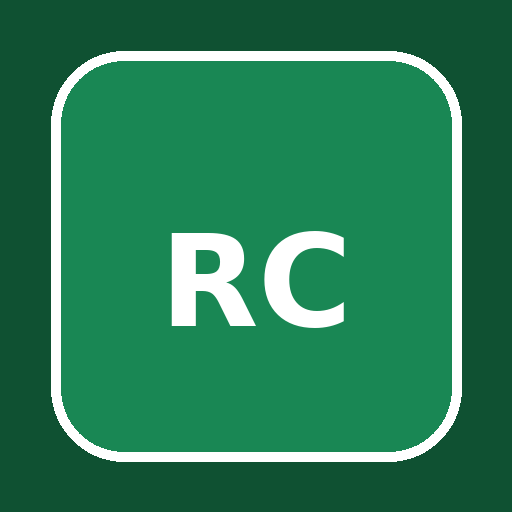
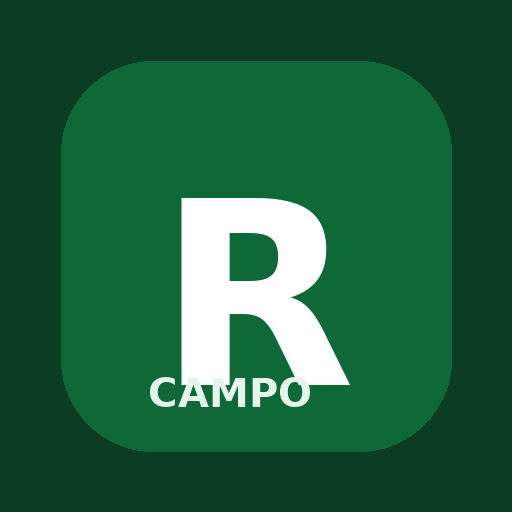
Add files via upload

diff --git a/service-worker.js b/service-worker.js
@@ -1,11 +1,114 @@
-const CACHE_NAME = 'reprogen-campo-v3-4-cache-20260530';
-const APP_SHELL = ['./','./index.html','./manifest.json','./icons/icon-192.png','./icons/icon-512.png'];
-self.addEventListener('install', event => { event.waitUntil(caches.open(CACHE_NAME).then(cache => cache.addAll(APP_SHELL)).then(()=>self.skipWaiting())); });
-self.addEventListener('activate', event => { event.waitUntil(caches.keys().then(keys => Promise.all(keys.filter(k => k !== CACHE_NAME).map(k => caches.delete(k)))).then(()=>self.clients.claim())); });
-self.addEventListener('fetch', event => {
-  const req = event.request;
-  if (req.method !== 'GET') return;
-  const url = new URL(req.url);
-  if (url.hostname.includes('script.google.com')) return; // Apps Script é online; fila local cuida quando falhar.
-  event.respondWith(fetch(req).then(res => { const copy=res.clone(); caches.open(CACHE_NAME).then(cache=>cache.put(req, copy)); return res; }).catch(()=>caches.match(req).then(cached => cached || caches.match('./index.html'))));
+/* REPROGEN CAMPO V3.4.1 — PWA Offline Real
+   Compatível com GitHub Pages, Android Chrome e JavaScript ES5.
+   Correção cirúrgica: cache app-shell + fallback para abertura fria offline.
+*/
+
+var CACHE_VERSION = 'reprogen-campo-v3-4-1-offline-real';
+var APP_SHELL = [
+  './',
+  './index.html',
+  './manifest.json',
+  './icons/icon-192.png',
+  './icons/icon-512.png'
+  /* Inclua aqui somente se existirem no repositório:
+  './libs/xlsx.full.min.js',
+  './libs/leaflet.css',
+  './libs/leaflet.js',
+  './libs/chart.min.js'
+  */
+];
+
+function cacheIndividualmente(cache) {
+  return Promise.all(APP_SHELL.map(function (url) {
+    return cache.add(url).catch(function (err) {
+      /* Não deixa uma imagem/lib ausente quebrar a instalação do service worker. */
+      try { console.warn('[SW] Falha ao cachear:', url, err); } catch (e) {}
+      return Promise.resolve();
+    });
+  }));
+}
+
+self.addEventListener('install', function (event) {
+  self.skipWaiting();
+  event.waitUntil(
+    caches.open(CACHE_VERSION).then(function (cache) {
+      return cacheIndividualmente(cache);
+    })
+  );
+});
+
+self.addEventListener('activate', function (event) {
+  event.waitUntil(
+    caches.keys().then(function (keys) {
+      return Promise.all(keys.map(function (key) {
+        if (key !== CACHE_VERSION) {
+          return caches.delete(key);
+        }
+        return Promise.resolve();
+      }));
+    }).then(function () {
+      return self.clients.claim();
+    })
+  );
+});
+
+function isNavigationRequest(request) {
+  return request.mode === 'navigate' ||
+    (request.method === 'GET' && request.headers.get('accept') && request.headers.get('accept').indexOf('text/html') !== -1);
+}
+
+function isSyncOrApiRequest(url) {
+  return /script\.google\.com|googleapis\.com|api\//i.test(url);
+}
+
+self.addEventListener('fetch', function (event) {
+  var request = event.request;
+  if (request.method !== 'GET') { return; }
+
+  var url = request.url || '';
+
+  /* APIs/sincronização: tenta rede primeiro; se offline, devolve erro controlado. */
+  if (isSyncOrApiRequest(url)) {
+    event.respondWith(
+      fetch(request).catch(function () {
+        return new Response(JSON.stringify({ ok: false, offline: true, message: 'Sem internet. Registro mantido na fila local.' }), {
+          status: 503,
+          headers: { 'Content-Type': 'application/json' }
+        });
+      })
+    );
+    return;
+  }
+
+  /* Navegação/abertura fria: cache primeiro; se falhar, index.html. */
+  if (isNavigationRequest(request)) {
+    event.respondWith(
+      fetch(request).then(function (response) {
+        var copy = response.clone();
+        caches.open(CACHE_VERSION).then(function (cache) { cache.put('./index.html', copy); });
+        return response;
+      }).catch(function () {
+        return caches.match('./index.html').then(function (cached) {
+          return cached || caches.match('./');
+        });
+      })
+    );
+    return;
+  }
+
+  /* App shell e arquivos estáticos: cache first, depois rede, depois index. */
+  event.respondWith(
+    caches.match(request).then(function (cached) {
+      if (cached) { return cached; }
+      return fetch(request).then(function (response) {
+        if (response && response.status === 200 && response.type !== 'opaque') {
+          var copy = response.clone();
+          caches.open(CACHE_VERSION).then(function (cache) { cache.put(request, copy); });
+        }
+        return response;
+      }).catch(function () {
+        return caches.match('./index.html');
+      });
+    })
+  );
 });